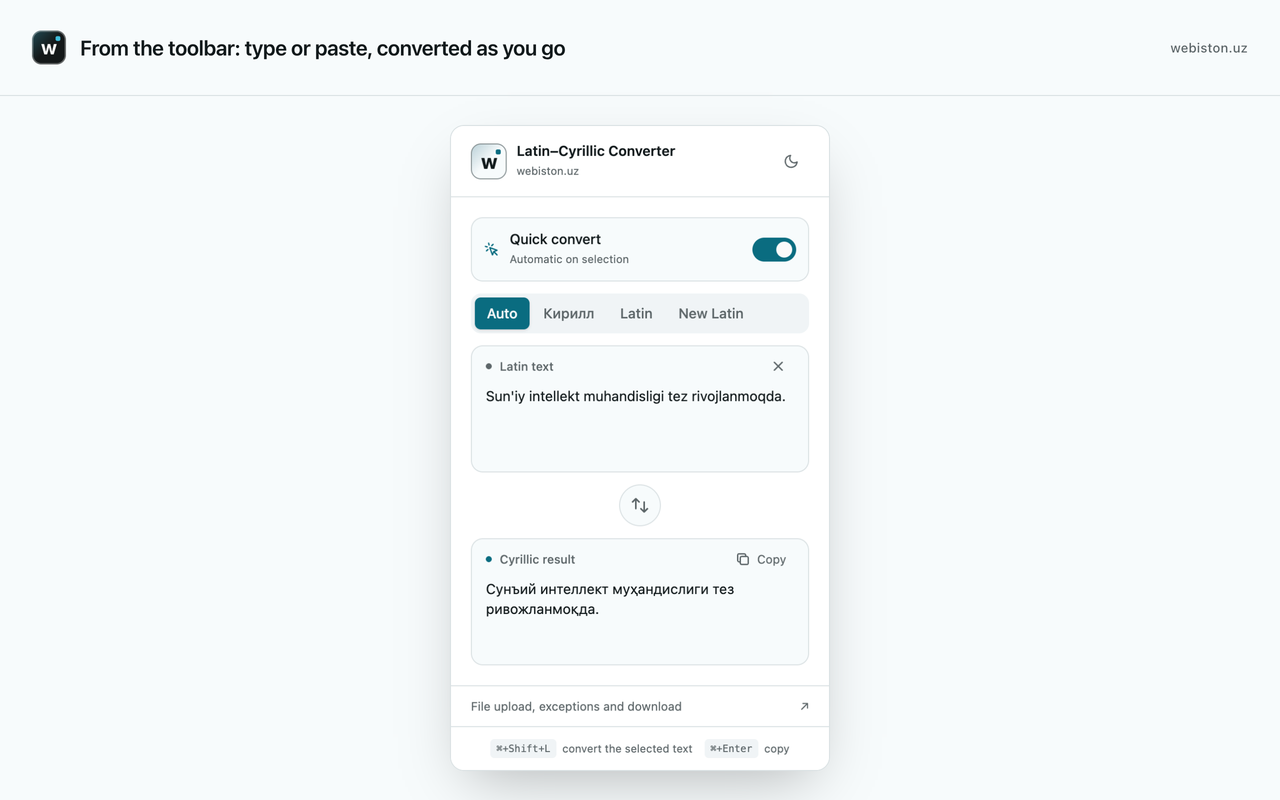
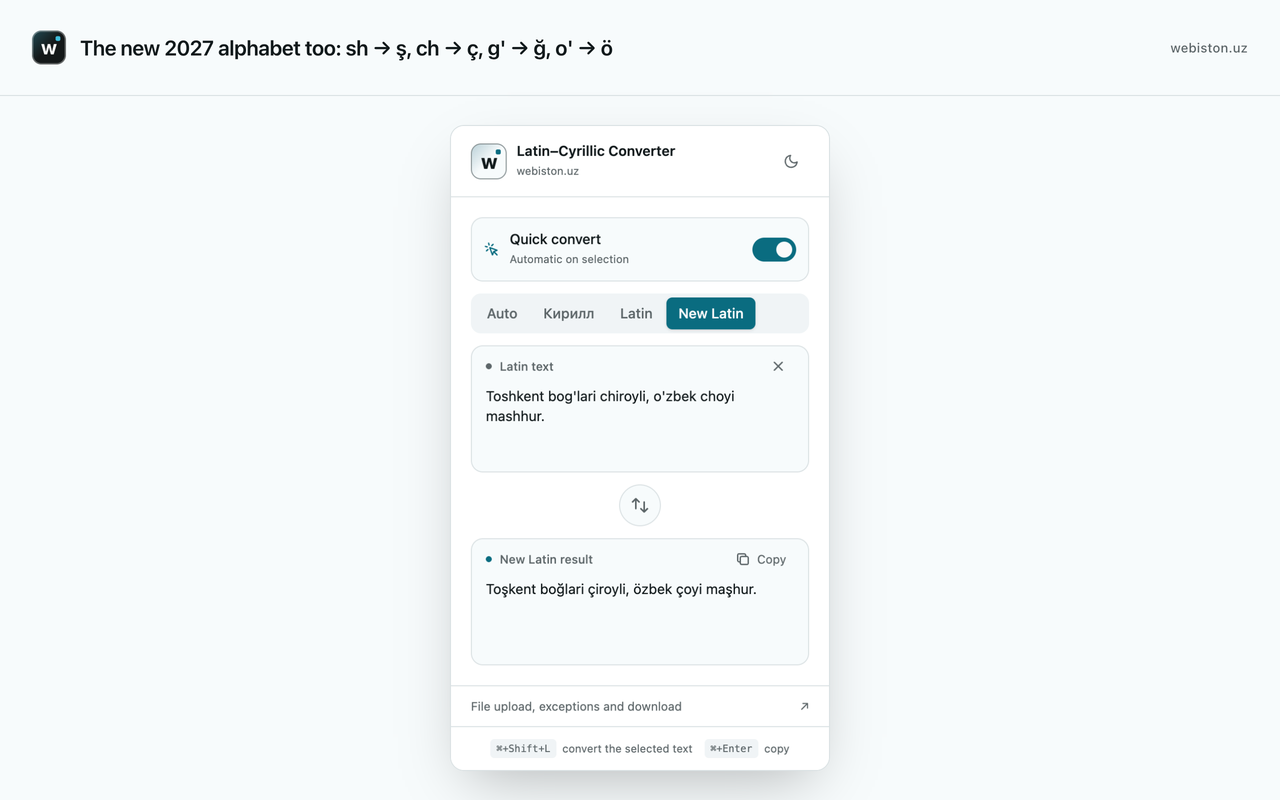
feat: configure Firefox source zipping and update store screenshots for the 2027 alphabet

diff --git a/apps/extensions/latin-cyrillic/wxt.config.ts b/apps/extensions/latin-cyrillic/wxt.config.ts
@@ -3,6 +3,34 @@ import { defineConfig } from "wxt"
 
 export default defineConfig({
   modules: ["@wxt-dev/module-react"],
+  /**
+   * The sources ZIP addons.mozilla.org asks for, because the build is
+   * minified. Zipped from the REPO root, not this folder: the extension
+   * imports two workspace packages (`@webiston/transliteration`, built with
+   * tsup; `@webiston/ui`, consumed as source), and a reviewer handed only this
+   * folder cannot rebuild what was uploaded. 1.0.0 shipped exactly that
+   * 40 KB, package-less archive. `SOURCE-BUILD.md` is the reviewer's recipe.
+   */
+  zip: {
+    sourcesRoot: "../../..",
+    includeSources: [
+      "apps/extensions/latin-cyrillic/**",
+      "packages/transliteration/**",
+      "packages/ui/**",
+      "package.json",
+      "pnpm-lock.yaml",
+      "pnpm-workspace.yaml"
+    ],
+    excludeSources: [
+      "**/node_modules/**",
+      "**/dist/**",
+      "**/.output/**",
+      "**/.wxt/**",
+      // Listing assets, not code — 1.2 MB of PNGs a reviewer never opens.
+      "apps/extensions/latin-cyrillic/store/**",
+      "apps/extensions/latin-cyrillic/store-assets/**"
+    ]
+  },
   vite: () => ({
     plugins: [tailwindcss()]
   }),

diff --git a/apps/extensions/latin-cyrillic/store/listing.md b/apps/extensions/latin-cyrillic/store/listing.md
@@ -1,39 +1,46 @@
 # Store listing — detailed description
 
 The NAME and the SHORT description come from `public/_locales/*/messages.json`
-(`extName`, `extDescription`) and ship inside the zip. The DETAILED description
-does not: the Chrome Web Store, Edge Add-ons and addons.mozilla.org each keep
-it in their own dashboard, per language. This file is its source — paste each
-block into that language's field when uploading a version that changes it.
+(`extName`, `extDescription`) and ship inside the zip — the dashboard shows
+them as "Title from package" / "Summary from package" and cannot edit them.
+The DETAILED description does not ship: the Chrome Web Store, Edge Add-ons
+and addons.mozilla.org each keep it in their own dashboard, per language.
+This file is its source — paste each block into that language's field.
 
-Plain text only (the stores strip Markdown). Version: 1.1.0.
+Plain text only (the stores strip Markdown). Version: 1.1.0. Merged with the
+1.0.x Chrome text (panel dragging, light/dark, the site link) on 2026-10-26.
 
 The new letters below are the code points Law OʻRQ-1184 publishes (Ş U+015E,
-Ç U+00C7, Ğ U+011E, Ö U+00D6) — not the look-alikes. Check before pasting.
+Ç U+00C7, Ğ U+011E, Ö U+00D6) — not the look-alikes. Every example is the
+engine's real output.
 
 ---
 
 ## uz
 
-O'zbek matnini lotin, kirill va yangi alifbo (2027) o'rtasida o'giring — istalgan saytda, sahifadan chiqmasdan.
+O'zbek matnini lotin, kirill va yangi alifbo (2027) o'rtasida o'giradi — istalgan saytda, sahifadan chiqmasdan.
 
-YANGI: 2027-yilgi yangi lotin alifbosi
-22-apreldan kuchga kiradigan yangi alifboga bir bosishda o'giring: sh → ş, ch → ç, g' → ğ, o' → ö. Lotin yoki kirill yozuvidagi matn ham, yarim o'girilgan hujjat ham to'g'ri chiqadi. Popup'da «Yangi lotin»ni tanlasangiz, sahifadagi panel va Ctrl+Shift+L ham shu alifboda ishlaydi.
+YANGI: 2027-YILGI YANGI LOTIN ALIFBOSI
+• 2027-yil 22-apreldan kuchga kiradigan alifboga bir bosishda o'giring: sh → ş, ch → ç, g' → ğ, o' → ö
+• Lotin yoki kirill yozuvidagi matn ham, yarim o'girilgan hujjat ham to'g'ri chiqadi
+• Popup'da «Yangi lotin»ni tanlang — sahifadagi panel va Ctrl+Shift+L ham shu alifboda ishlaydi
 
-Qanday ishlaydi
-• Matnni belgilang — yonida tugma chiqadi. Bossangiz, natija o'sha yerning o'zida ochiladi.
-• O'ng tugma menyusida ham bor.
-• Ctrl+Shift+L (macOS'da ⌘+Shift+L) — belgilangan matnni o'girib, darhol nusxalaydi.
-• Tahrirlanadigan maydonda «Almashtirish» tugmasi matnni joyida almashtiradi.
-• Yo'nalish avtomatik aniqlanadi: kirillcha matn lotinga, lotincha kirillga.
+IMKONIYATLAR
+• Istalgan veb-sahifada matnni tanlang — yonida kichik tugma chiqadi
+• O'ng tugma menyusidan ham ishlaydi
+• Ctrl+Shift+L (Mac: ⌘+Shift+L) — tanlangan matnni o'girib, darhol nusxalaydi
+• Tahrirlanadigan maydonda «Almashtirish» tugmasi matnni joyida almashtiradi
+• Yo'nalish avtomatik aniqlanadi: kirillcha matn lotinga, lotincha kirillga
+• Panelni istagan joyingizga surib qo'yishingiz mumkin
+• Yorug' va qorong'i rejim
 
-Aniq o'giradi
-O'zbek imlosining murakkab joylari hisobga olingan: sh va ch chegarasi (ishchi → ишчи), tutuq belgisi (san'at → санъат), -tsiya qo'shimchasi. Havolalar, e-pochta manzillari va kod o'zgarishsiz qoladi.
+ANIQ O'GIRADI
+O'zbek imlosining murakkab joylari hisobga olingan: sh va ch chegarasi (ishchi → ишчи), tutuq belgisi (san'at → санъат), -tsiya qo'shimchasi (informatsiya → информация). Havolalar, e-pochta manzillari va kod o'zgarishsiz qoladi.
 
-Maxfiylik
-Matn brauzeringizdan chiqmaydi. O'girish qurilmangizning o'zida bajariladi, kengaytma hech qanday serverga so'rov yubormaydi va internetsiz ham ishlaydi.
+MAXFIYLIK: matningiz brauzeringizdan chiqmaydi. O'girish butunlay qurilmangizda bajariladi, hech qanday serverga yuborilmaydi. Internetsiz ham ishlaydi.
 
-Word yoki PDF faylni o'girish kerakmi? webiston.uz/tools/latin-cyrillic — fayllarni ham o'giradi.
+Word yoki PDF faylni o'girish (to'liq versiya): https://webiston.uz/tools/latin-cyrillic
+Yangi alifbo haqida batafsil: https://webiston.uz/tools/yangi-alifbo
 
 ---
 
@@ -41,23 +48,27 @@ Word yoki PDF faylni o'girish kerakmi? webiston.uz/tools/latin-cyrillic — fayl
 
 Convert Uzbek text between Latin, Cyrillic and the new 2027 alphabet — on any website, without leaving the page.
 
-NEW: the 2027 Uzbek Latin alphabet
-Convert into the alphabet that takes effect on 22 April 2027 in one click: sh → ş, ch → ç, g' → ğ, o' → ö. Text in Latin or Cyrillic, or a half-converted document, comes out right. Pick “New Latin” in the popup and the in-page panel and Ctrl+Shift+L use it too.
+NEW: THE 2027 UZBEK LATIN ALPHABET
+• Convert into the alphabet that takes effect on 22 April 2027 in one click: sh → ş, ch → ç, g' → ğ, o' → ö
+• Text in Latin or Cyrillic, or a half-converted document, comes out right
+• Pick “New Latin” in the popup — the in-page panel and Ctrl+Shift+L use it too
 
-How it works
-• Select text — a button appears next to it. Click it and the result opens right there.
-• It is in the right-click menu as well.
-• Ctrl+Shift+L (⌘+Shift+L on macOS) converts the selection and copies it.
-• In an editable field, “Replace” swaps the text in place.
-• The direction is detected for you: Cyrillic goes to Latin, Latin to Cyrillic.
+FEATURES
+• Select text on any web page — a small button appears beside it
+• Works from the right-click menu too
+• Ctrl+Shift+L (Mac: ⌘+Shift+L) converts the selection and copies it instantly
+• In an editable field, “Replace” swaps the text in place
+• The direction is detected for you: Cyrillic goes to Latin, Latin to Cyrillic
+• Drag the panel anywhere you like
+• Light and dark mode
 
-Accurate
-Handles the hard parts of Uzbek spelling: the sh/ch boundary (ishchi → ишчи), the tutuq mark (san'at → санъат), the -tsiya suffix. Links, e-mail addresses and code are left untouched.
+ACCURATE
+Handles the hard parts of Uzbek spelling: the sh/ch boundary (ishchi → ишчи), the tutuq mark (san'at → санъат), the -tsiya suffix (informatsiya → информация). Links, e-mail addresses and code are left untouched.
 
-Private
-Your text never leaves the browser. Conversion runs on your device, the extension makes no network requests and works offline.
+PRIVACY: your text never leaves the browser. Conversion runs entirely on your device and nothing is sent to any server. Works offline.
 
-Need to convert a Word or PDF file? webiston.uz/en/tools/latin-cyrillic handles files.
+Convert a Word or PDF file (full version): https://webiston.uz/en/tools/latin-cyrillic
+More about the new alphabet: https://webiston.uz/en/tools/yangi-alifbo
 
 ---
 
@@ -65,20 +76,24 @@ Need to convert a Word or PDF file? webiston.uz/en/tools/latin-cyrillic handles 
 
 Переводите узбекский текст между латиницей, кириллицей и новым алфавитом 2027 года — на любом сайте, не покидая страницу.
 
-НОВОЕ: новый узбекский латинский алфавит 2027 года
-Перевод в алфавит, который вступает в силу 22 апреля 2027 года, в один клик: sh → ş, ch → ç, g' → ğ, o' → ö. Текст на латинице или кириллице и даже наполовину переведённый документ получаются правильно. Выберите «Latin 2027» во всплывающем окне — панель на странице и Ctrl+Shift+L тоже будут работать с ним.
+НОВОЕ: НОВЫЙ УЗБЕКСКИЙ ЛАТИНСКИЙ АЛФАВИТ 2027 ГОДА
+• Перевод в алфавит, который вступает в силу 22 апреля 2027 года, в один клик: sh → ş, ch → ç, g' → ğ, o' → ö
+• Текст на латинице или кириллице и даже наполовину переведённый документ получаются правильно
+• Выберите «Latin 2027» во всплывающем окне — панель на странице и Ctrl+Shift+L тоже будут работать с ним
 
-Как это работает
-• Выделите текст — рядом появится кнопка. Нажмите, и результат откроется прямо там.
-• Есть и в контекстном меню.
-• Ctrl+Shift+L (⌘+Shift+L на macOS) переводит выделение и сразу копирует.
-• В редактируемом поле кнопка «Заменить» меняет текст на месте.
-• Направление определяется автоматически: кириллица — в латиницу, латиница — в кириллицу.
+ВОЗМОЖНОСТИ
+• Выделите текст на любой веб-странице — рядом появится кнопка
+• Работает и из контекстного меню
+• Ctrl+Shift+L (Mac: ⌘+Shift+L) — переводит выделенное и сразу копирует
+• В редактируемом поле кнопка «Заменить» меняет текст на месте
+• Направление определяется автоматически: кириллица — в латиницу, латиница — в кириллицу
+• Панель можно перетащить в любое место
+• Светлая и тёмная тема
 
-Точно
-Учитывает сложные места узбекской орфографии: границу sh/ch (ishchi → ишчи), знак тутук (san'at → санъат), суффикс -tsiya. Ссылки, адреса почты и код остаются без изменений.
+ТОЧНО
+Учитывает сложные места узбекской орфографии: границу sh/ch (ishchi → ишчи), знак тутук (san'at → санъат), суффикс -tsiya (informatsiya → информация). Ссылки, адреса почты и код остаются без изменений.
 
-Приватно
-Текст не покидает браузер. Перевод выполняется на вашем устройстве, расширение не обращается к сети и работает без интернета.
+ПРИВАТНОСТЬ: текст не покидает браузер. Перевод выполняется полностью на вашем устройстве, ничего не отправляется на сервер. Работает без интернета.
 
-Нужно перевести файл Word или PDF? webiston.uz/ru/tools/latin-cyrillic умеет и это.
+Перевод файлов Word и PDF (полная версия): https://webiston.uz/ru/tools/latin-cyrillic
+Подробнее о новом алфавите: https://webiston.uz/ru/tools/yangi-alifbo

diff --git a/apps/extensions/latin-cyrillic/README.md b/apps/extensions/latin-cyrillic/README.md
@@ -137,12 +137,25 @@ Theme popup'da o'zgartirilsa, content script'dagi popover ham o'zgaradi (chrome.
 
 ## Publishing
 
-Chrome Web Store'ga yuklash:
-1. `pnpm ext:zip` ni ishga tushiring
-2. [Chrome Web Store Developer Dashboard](https://chrome.google.com/webstore/devconsole) ga kiring
-3. "New Item" tugmasini bosing
-4. ZIP faylni yuklang
-5. Ma'lumotlarni to'ldiring va publish qiling
+```bash
+pnpm ext:zip:all   # chrome / edge / firefox zips + the Firefox sources zip
+pnpm ext:store     # store screenshots + promo tiles → .output/store/<locale>/
+                   # (run with --locale en / --locale ru for the other two)
+```
+
+| Store | Dashboard | Upload |
+| ----- | --------- | ------ |
+| Chrome Web Store | https://chrome.google.com/webstore/devconsole | `*-chrome.zip` |
+| Edge Add-ons | https://partner.microsoft.com/dashboard/microsoftedge/overview | `*-edge.zip` |
+| addons.mozilla.org | https://addons.mozilla.org/developers/addons | `*-firefox.zip` + `*-sources.zip` |
+
+- Name and short description ship in the zip (`public/_locales`). The
+  detailed description is pasted per language from `store/listing.md`.
+- Firefox needs the sources zip because the build is minified;
+  `SOURCE-BUILD.md` is the reviewer's recipe (verified: it rebuilds the
+  uploaded package byte for byte).
+- Limits checked by `tests/locales.test.ts`: name ≤ 45 (Edge), short
+  description ≤ 132 (Chrome), no pictographic symbols (Edge).
 
 ## License
 

diff --git a/apps/extensions/latin-cyrillic/SOURCE-BUILD.md b/apps/extensions/latin-cyrillic/SOURCE-BUILD.md
@@ -1,0 +1,28 @@
+# Building the Firefox add-on from this source archive
+
+For addons.mozilla.org reviewers. The archive is a slice of a pnpm monorepo:
+the add-on (`apps/extensions/latin-cyrillic`) plus the two workspace packages
+it imports (`packages/transliteration`, `packages/ui`).
+
+Requirements: Node.js 22 or newer, and pnpm 11 (pinned in the root
+`package.json` as `packageManager`; `corepack enable` provides it).
+
+Run from the archive root:
+
+```sh
+corepack enable
+pnpm install --frozen-lockfile --ignore-scripts
+pnpm --filter @webiston/transliteration build
+pnpm --filter latin-cyrillic-extension build:firefox
+```
+
+`--ignore-scripts` skips the root `prepare` script, which installs git hooks
+for the full repository and is not part of the add-on build.
+
+The add-on is written to
+`apps/extensions/latin-cyrillic/.output/firefox-mv2/` — the same files as the
+uploaded package. Bundler: Vite via WXT (`wxt.config.ts`).
+
+The add-on makes no network requests: conversion runs locally in
+`packages/transliteration`, and `storage` holds only the theme, the
+quick-convert toggle and the chosen alphabet.
